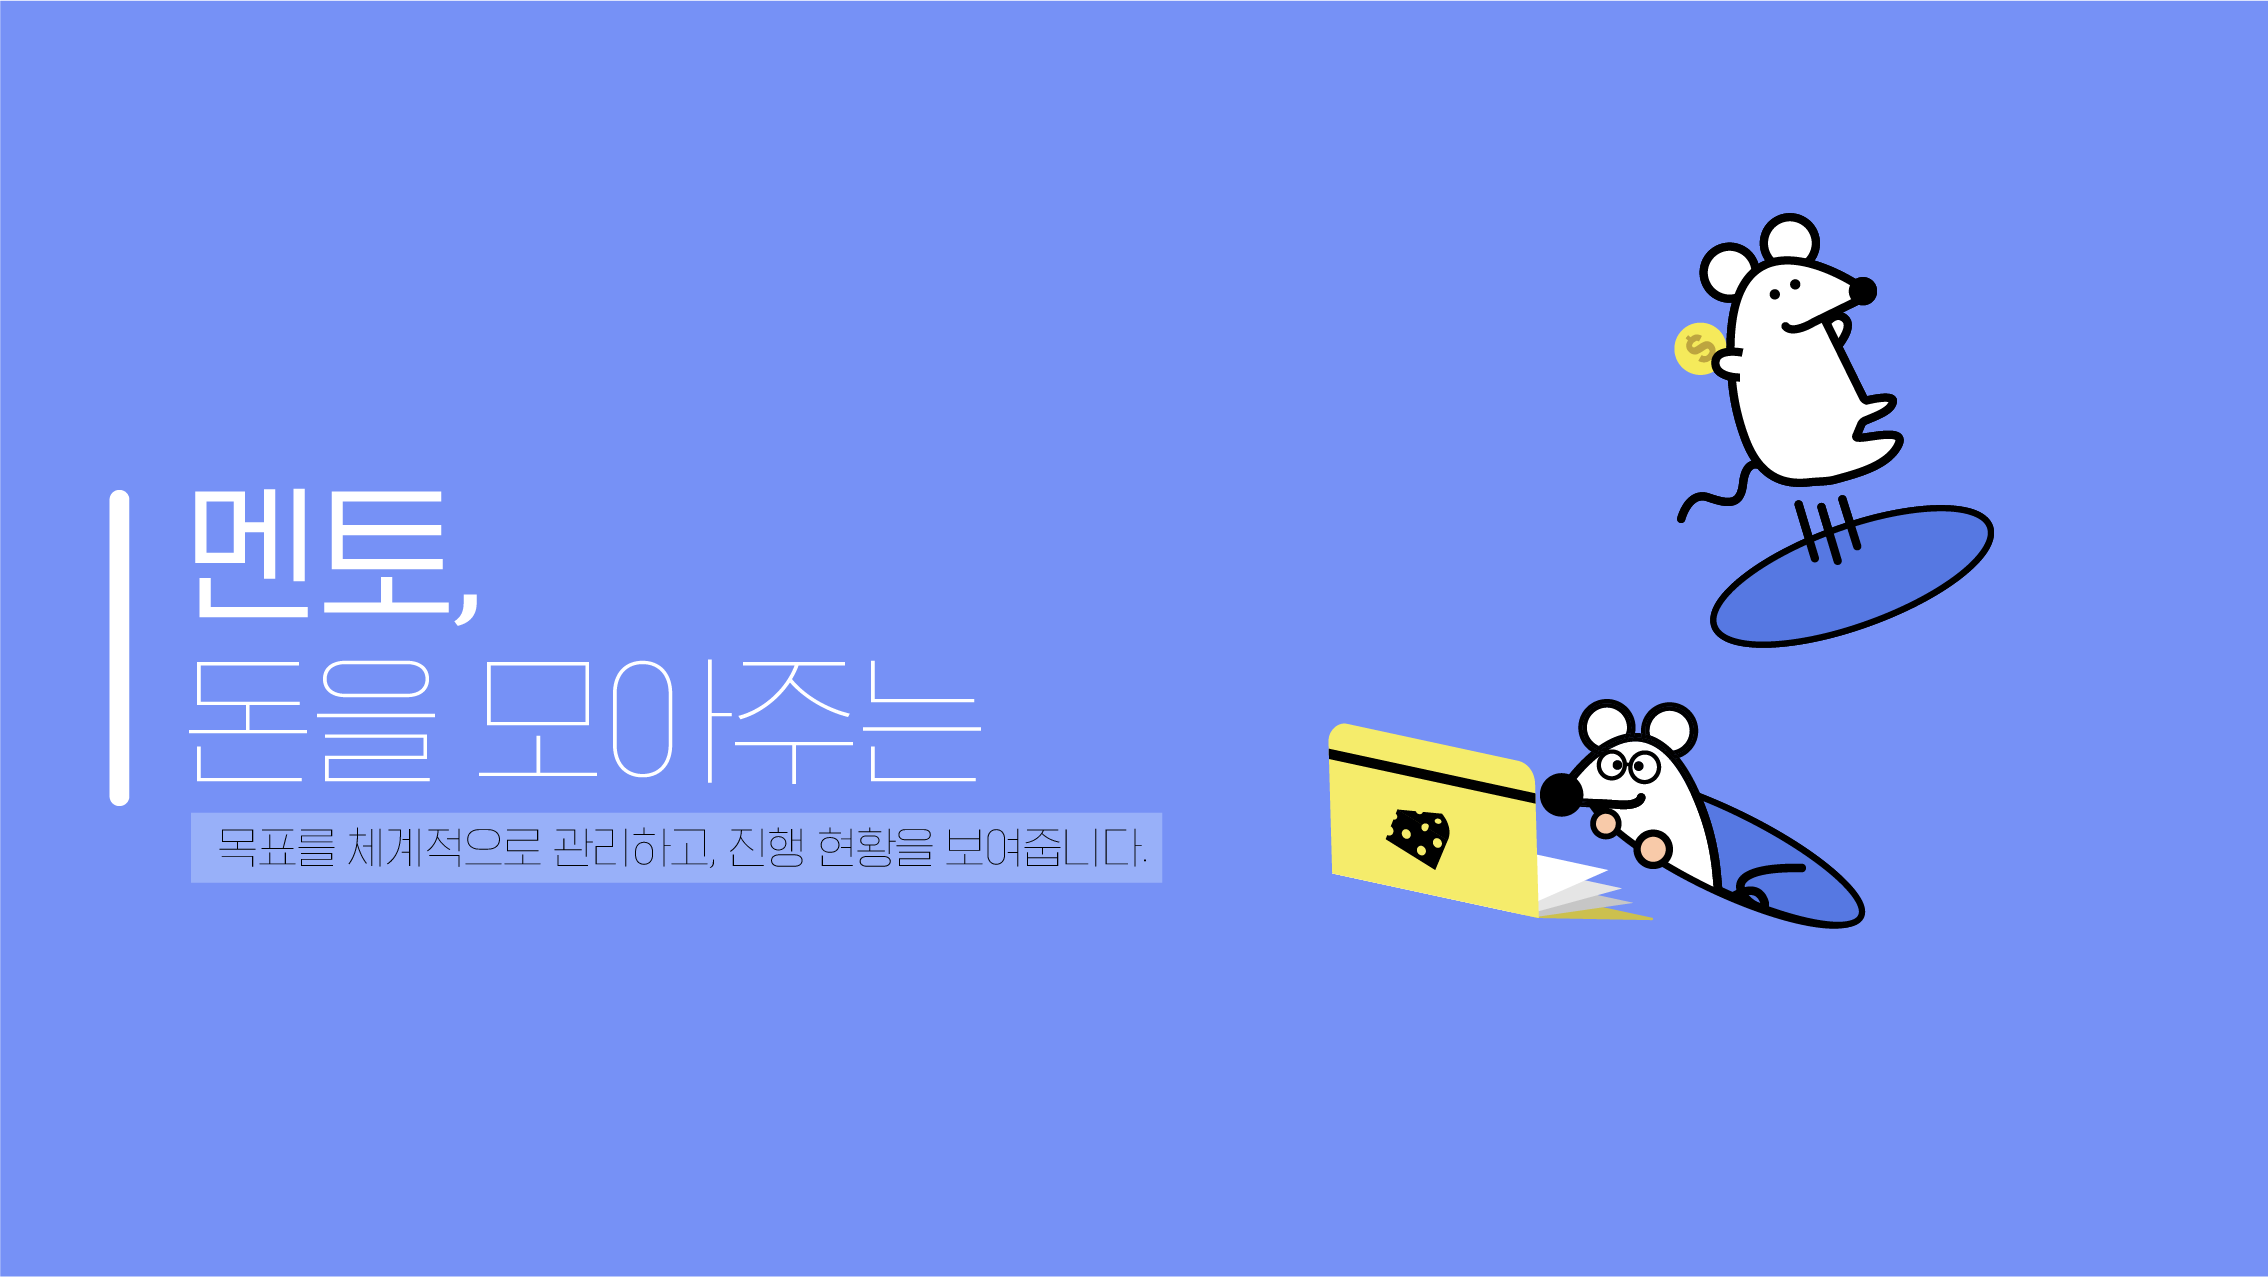
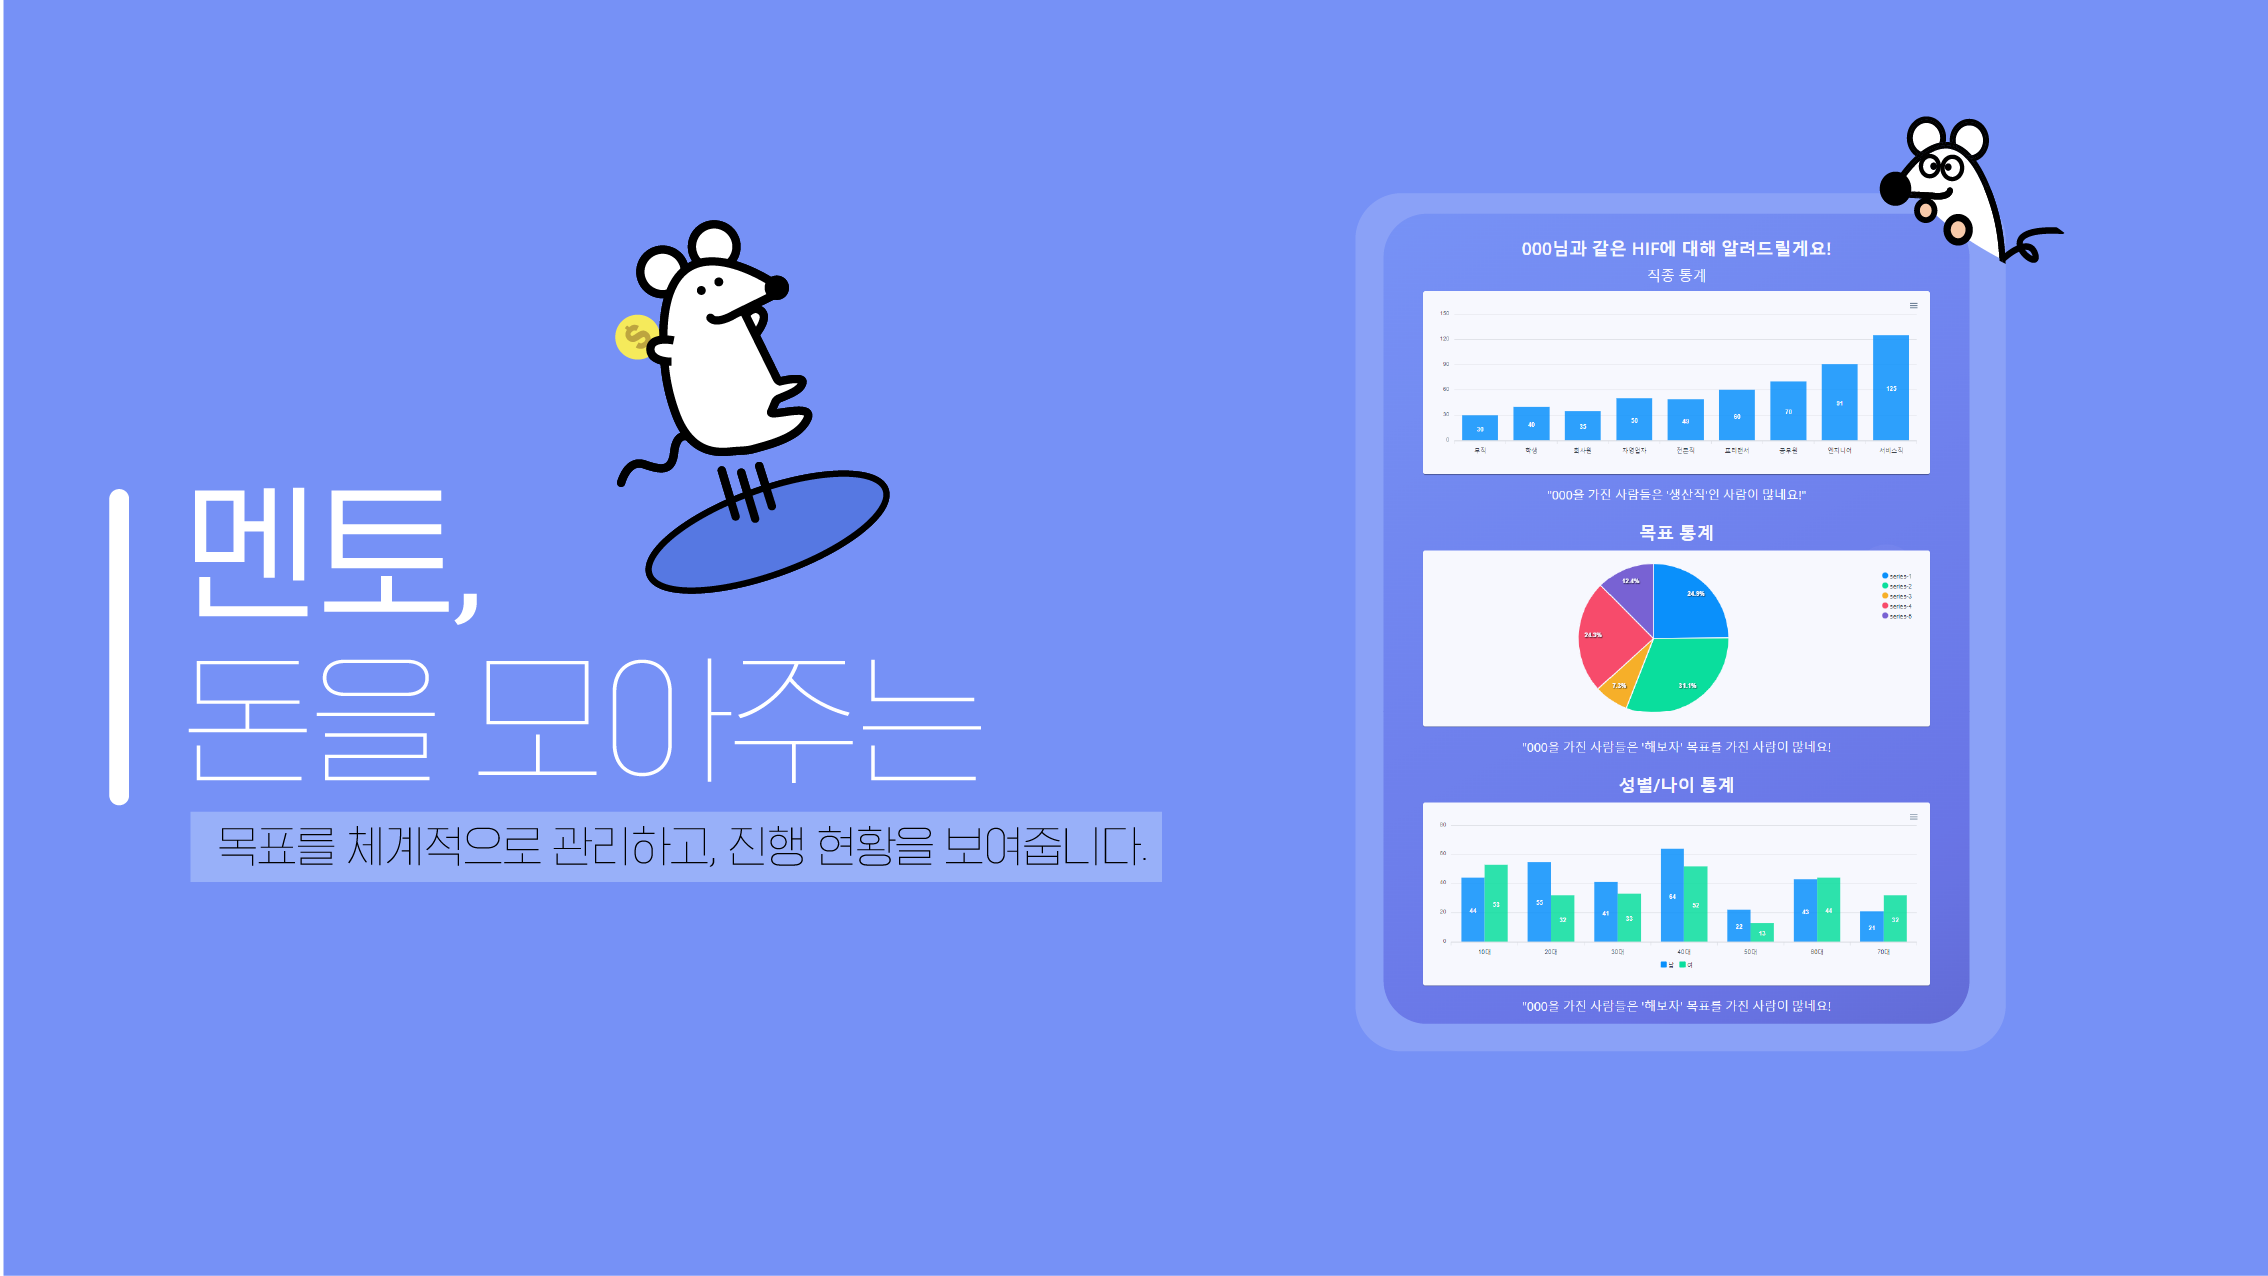
Fix. 메인 페이지 수정, 로그인 버그 수정 (#78)
* Feat : "쥐 이미지 추가"

* Feat : "쥐 이미지 추가" Fix : "필요없는 라이브러리 삭제"

* Add: Add image

* Feat : "메인페이지 디자인 추가", "쥐 이미지 추가"

* Delete 파일 삭제

* FEAT. 쥐 이미지, 메인 디자인 추가, main.js페이지 추가

* fix. main 페이지 수정, 버그 수정

diff --git a/frontend/src/pages/Loading.js b/frontend/src/pages/Loading.js
@@ -18,7 +18,7 @@ export default function Loading() {
       sessionStorage.setItem("savingAmount", res.data.savingAmount);
     })
     .then(() => {
-      //window.location.href = "/";
+      window.location.href = "/";
     })
     .catch((error) => console.log(error));
 }
